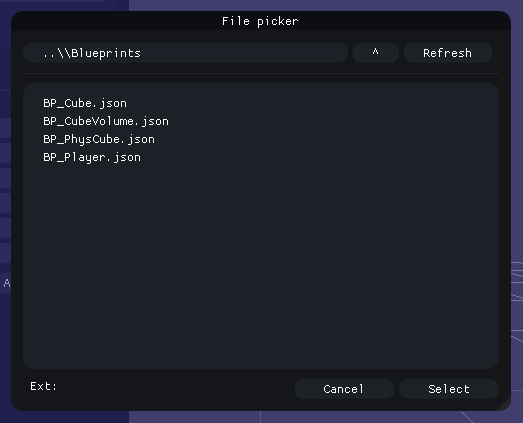
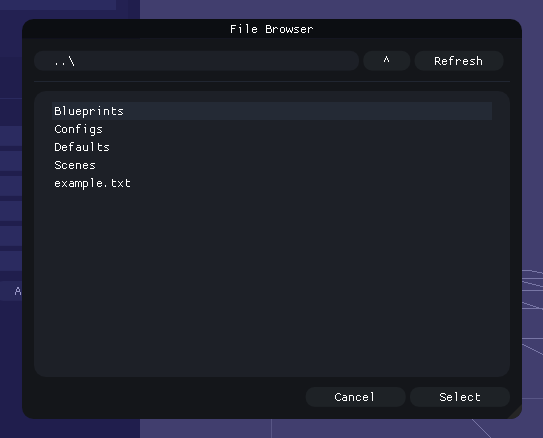
Minor renaming

diff --git a/imgui_filebrowser.cpp b/imgui_filebrowser.cpp
@@ -31,7 +31,7 @@ inline std::string ImGuiStdStringRemove(const std::string& InStr, const std::str
 
 std::string ImGui::FileBrowser::GetLabel() const
 {
-    return "File picker##" + OriginalPath;
+    return "File Browser##" + OriginalPath;
 }
 
 std::string ImGui::FileBrowser::GetRelative(const std::string& InPath)
@@ -119,7 +119,7 @@ bool ImGui::FileBrowser::FetchInternal(std::string& OutPath)
         EditContent();
         Spacing();
 
-        
+        // Extension text in the bottom right
         std::string ext;
         switch (Option)
         {
@@ -135,9 +135,13 @@ bool ImGui::FileBrowser::FetchInternal(std::string& OutPath)
             }
             break;
         }
-        Text((" Ext: " + ext).c_str());
-        SameLine();
-        
+        if (!ext.empty())
+        {
+            Text((" Ext: " + ext).c_str());
+            SameLine();
+        }
+
+        // Select / Cancel buttons
         const ImGuiStyle style = GetStyle();
         constexpr ImVec2 buttonSize(100.f, 0.f);
         const float widthNeeded = buttonSize.x + style.ItemSpacing.x + buttonSize.x;
@@ -204,10 +208,10 @@ void ImGui::FileBrowser::Refresh()
     }
     
     // 3. Refresh hint
-    RefreshHint();
+    RefreshGuess();
 }
 
-void ImGui::FileBrowser::RefreshHint()
+void ImGui::FileBrowser::RefreshGuess()
 {
     std::string editedPath = GetEditedPath(EditedPath);
     const std::filesystem::path path(GetRelative(editedPath));
@@ -282,7 +286,7 @@ void ImGui::FileBrowser::EditNavigation()
             TryApplyPath(GetEditedPath(EditedPath));
     }
     if (IsItemEdited())
-        RefreshHint();
+        RefreshGuess();
     if (IsItemActive())
     {
         if (IsKeyDown(ImGuiKey_Tab))

diff --git a/imgui_filebrowser.h b/imgui_filebrowser.h
@@ -28,7 +28,7 @@ namespace ImGui
         static std::string GetEditedPath(const std::string& InPath); 
         
         void Refresh();
-        void RefreshHint();
+        void RefreshGuess();
         
         bool TryPopPath();
         bool TryApplyPath(const std::string& InString);

diff --git a/README.md b/README.md
@@ -1,5 +1,5 @@
 # ImGui FileBrowser
-A simple file-browser for ImGui
+A simple file-browser for [dear-imgui](https://github.com/ocornut/imgui). 
 
 ![IMG](./screenshots/0.png)
 
